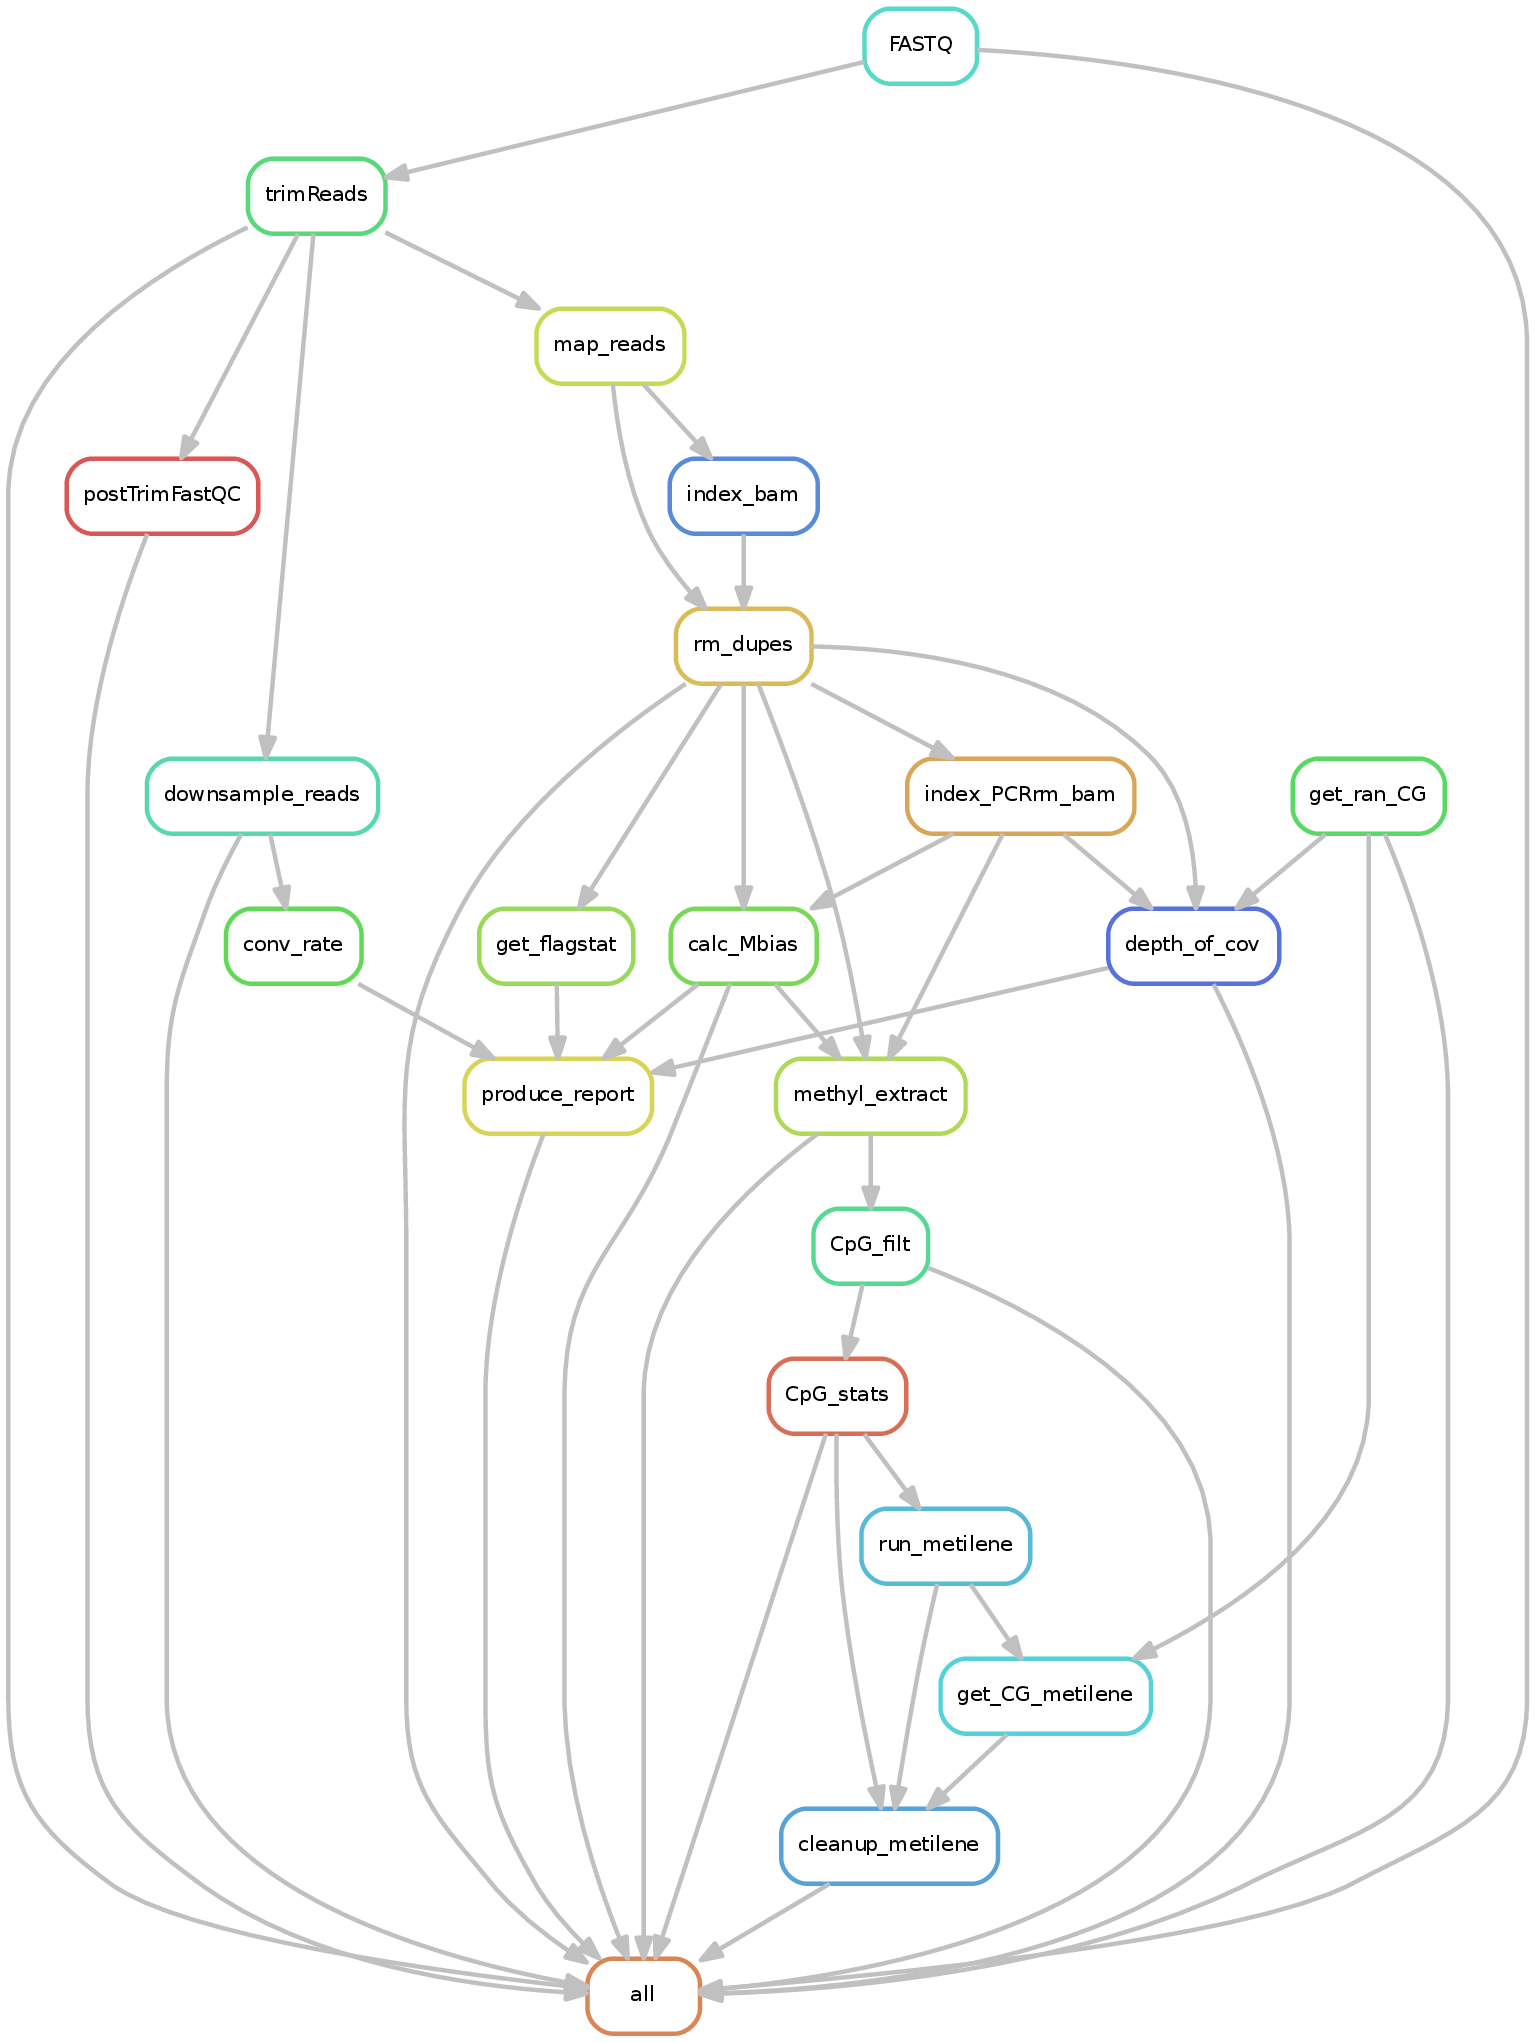
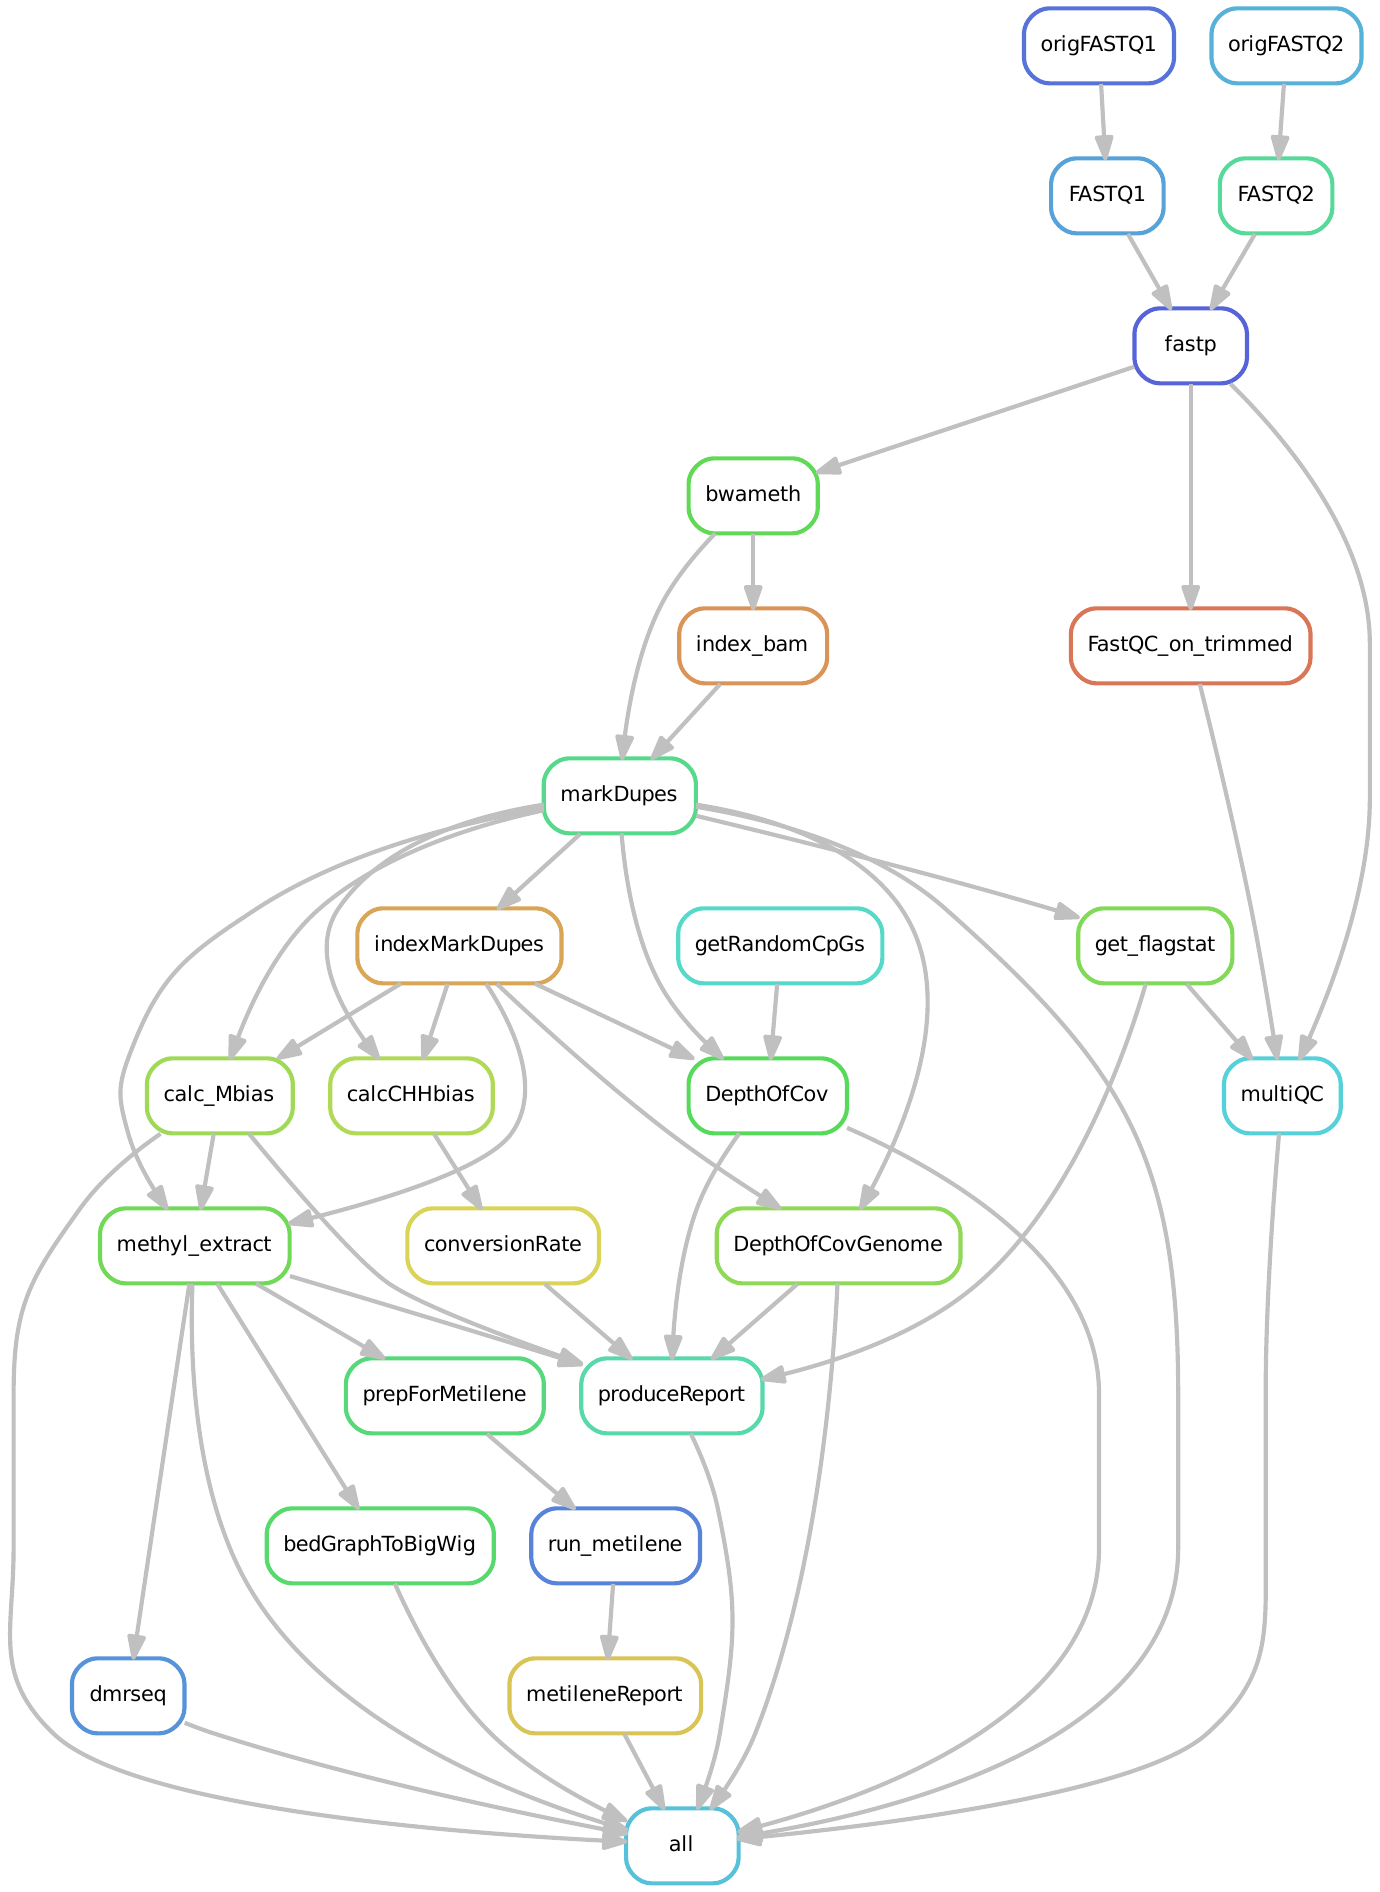
Update documentation

diff --git a/docs/content/workflows/WGBS.rst b/docs/content/workflows/WGBS.rst
@@ -7,17 +7,13 @@ WGBS
 What it does
 ------------
 
-Optionally trimmed reads are mapped to reference genome using a bisulfite-specific aligner (`bwa-meth <https://github.com/brentp/bwa-meth>`__).
-Quality metrics are collected and synthesized in a QC report, including bisulfite conversion rate, mapping rate, percentage CpGs covered a least 10x, methylation bias.
+Optionally trimmed reads are mapped to the reference genome using a bisulfite-specific aligner (`bwa-meth <https://github.com/brentp/bwa-meth>`__).
+Quality metrics are collected and synthesized in a QC report, including bisulfite conversion rate, mapping rate, coverage metrics, and methylation bias.
 
-There are two flags that allow skipping certain QC metric calculation, i.e. ``skipDOC`` and ``skipGCbias``. These deactivate the GATK-dependent calculation of depth of coverage and the deepTools-dependent calculation of GC bias,respectively, e.g. in case these metrics are known from another source.
+There are two flags that allow skipping certain QC metric calculation, i.e. ``--skipDOC`` and ``--GCbias``. These deactivate or activate, respectively, the depth of coverage (DOC) calculations or GC bias calculation done by deepTools.
 
-Methylation ratios are extracted (via `MethylDackel <https://github.com/dpryan79/MethylDackel>`__) for CpG positions in the reference genome with a minimum coverage (10x) and low snp allelic frequency (<0.25 illegitimate bases).
-If sample sheet is provided, logit-transformed beta values for CpG positions are tested for differential methylation using `limma <https://bioconductor.org/packages/release/bioc/html/limma.html>`__.
-Metilene is called to detect de novo DMRs using parameters specified in the defaults dictionary. In addition to the nonparametric statistics output by metilene, limma-derived statistics are recalculated for DMRs, which are further annotated with nearest gene information.
-If bed file(s) with genomic intervals of interest are provided, methylation ratios are aggregated over those and limma is used on logit-transformed methylation ratios to test for differential methylation.
-
-Default filtering criteria for all statistical approaches are specified in defaults.yaml as minimum difference in methylation 0.1 (minMethDiff) as well as FDR threshold (FDR) of 0.1. Uses are highly encouraged to rigorously inspect the resulting volcano plots and to adjust these thresholds as appropriate for their dataset.
+Methylation ratios are extracted (via `MethylDackel <https://github.com/dpryan79/MethylDackel>`__) for CpG positions in the reference genome with a minimum coverage specified by ``--minCoverage``  and low SNP allelic frequency (<0.25 illegitimate bases).
+If a sample sheet is provided, `Metilene <https://www.bioinf.uni-leipzig.de/Software/metilene/`__ , `DMRseq <https://bioconductor.org/packages/release/bioc/html/dmrseq.html>`__ and/or `DSS <https://bioconductor.org/packages/release/bioc/html/DSS.html>`__ (as specified by ``--DMRprograms``) will be used to find differentially methylated regions (DMRs). Filtering criterion can be changed both for the CpGs used to find DMRs as well as what are considered as significant DMRs.
 
 
 .. image:: ../images/WGBS_pipeline.png
@@ -25,10 +21,10 @@ Default filtering criteria for all statistical approaches are specified in defau
 Input requirements
 ------------------
 
-This pipeline requires paired-end reads fastq files and a genome alias, for which ``bwa-meth`` index has been built.
-Optional inputs include bed files with genomic intervals of interest, used to aggregate single CpG values over; a sample sheet with grouping information to use in differential methylation analysis; a blacklist bed file with genomic positions corresponding to known snps to mask single CpG methylation values.
+This pipeline requires fastq files and a genome alias, for which ``bwa-meth`` index has been built.
+Optional inputs include a sample sheet with grouping information to use in differential methylation analysis and a blacklist bed file with genomic positions corresponding to known snps to mask single CpG methylation values.
 
-It is possible to use pipeline-compatible bam files as input. For that, the user has to use the ``--fromBAM`` flag and provide the bam file extention if not matched by the default. Note that this will disable calculating conversion rate as this steps requires fastq.gz input. This is an experimental feature.
+It is possible to use pipeline-compatible bam files as input. For that, the user has to use the ``--fromBAM`` flag and provide the bam file extension if not matched by the default.
 
 
 Workflow configuration file
@@ -50,7 +46,7 @@ Workflow configuration file
 	blacklist:
 	###sample Sheet
 	sampleSheet:
-	###Compute MBias bounds manually?
+	###inclusion bounds for methylation extraction
 	noAutoMethylationBias: False
 	## FASTQ file extension (default: ".fastq.gz")
 	ext: '.fastq.gz'
@@ -59,7 +55,7 @@ Workflow configuration file
 	## Number of reads to downsample from each FASTQ file
 	downsample:
 	## Options for trimming
-	trim: True
+	trim: False
 	trimmer: 'fastp'
 	trimmerOptions: '-q 5 -l 30 -M 5'
 	## Bin size of output files in bigWig format
@@ -74,64 +70,63 @@ Workflow configuration file
 	paired: True
 	###Flags to control skipping of certain QC calculations
 	skipDOC: False
-	skipGCbias: False
-	###Metilene DMR calling parameters:
+	GCbias: False
+	###Thresholds for filtering of statistical comparisons (DMRs and DMLs)
+	DMRprograms: 'metilene,dmrseq'
 	maxDist: 300
 	minCpGs: 10
-	###Thresholds for filtering of statistical comparisons (DMLs and DMRs)
-	minMethDiff: 0.1
+	minCoverage: 5
 	FDR: 0.1
-	computeDMLs: False
+	minMethDiff: 0.1
 	###MethylDackel options
 	MethylDackelOptions: '--mergeContext --maxVariantFrac 0.25 --minDepth 4'
-
+	##umi_tools
+	umibarcode: False
+	bcpattern: NNNNCCCCCCCCC #default: 4 base umi barcode, 9 base cell barcode (eg. RELACS barcode)
+	umidedup: False
+	umidedup_sep: "_"
+	umidedup_opts: --paired
+	aligner: bwameth
 
 Understanding the outputs
 ---------------------------
 
-The WGBS pipeline invoked with reads as input, providing a sample sheet as well as target intervals, will generate output as follows:
+The WGBS pipeline invoked fastq files and a sample sheet and the ``--trim`` and ``--fastqc`` options  will generate the following output:
 
 ::
 
     output_dir
-    |-- cluster_logs
-    |-- metilene_out_example
-    |   `-- logs
-    |-- aggregate_stats_limma_example
-    |   `-- logs
-    |-- singleCpG_stats_limma_example
-    |   `-- logs
-    |-- QC_metrics
-    |   `-- logs
-    |-- methXT
-    |   `-- logs
-    |-- bams
-    |   `-- logs
-    |-- FASTQ_Cutadapt
-    |   `-- logs
-    |-- FASTQ_downsampled
-    |   `-- logs
-    `-- FASTQ
+    ├── bwameth
+    ├── cluster_logs
+    ├── dmrseq_sampleSheet_minCoverage5
+    ├── FASTQ
+    ├── FastQC_trimmed
+    ├── FASTQ_fastp
+    ├── MethylDackel
+    ├── metilene_sampleSheet_minCoverage5
+    ├── multiQC
+    ├── originalFASTQ
+    └── QC_metrics
 
-Aggregate stats will be calculated if user provides at least one bed file with genomic intervals of interest. Differential methylation analysis (singleCpG stats) or DMR detection (metilene_out) will only be run if user provides a sample sheet. It is possible to rerun the differential methylation analysis multiple times using different sample sheet files at a time (e.g. to specify different sample subsets or different contrasts). The name of the sample sheet is appended to the respective result folders (in this case: "example").
-
-In addition to the FASTQ module results (see :ref:`running_snakePipes`), the workflow produces the following outputs:
+The workflow produces the following outputs:
 
 - **FASTQ_downsampled**: contains read files downsampled to 5mln reads. These are used to calculate conversion rate which would otherwise take a very long time.
 
-- **bams**: contains bam files obtained through read alignment with bwa-meth and the PCR duplicate removal with sambamba, as well as matching bam index files.
+- **bwameth**: contains bam files obtained through read alignment with bwa-meth and the PCR duplicate removal with sambamba, as well as matching bam index files.
 
-- **methXT**: contains counts of methylated and unmethylated reads per CpG position in the genome in the bedGraph format as output by methylDackel using filtering thresholds (\*_CpG.bedGraph files). Contains also the 'filtered' \*.CpG.filt2.bed files, after applying redundant coverage filtering or masking CpG positions intersecting a bed file with SNP positions if provided by the user. The latter are used in the downstream statistical analysis. This also contains bigWig files containing the methylation percentage and coverage for use in tools like IGV and deepTools.
+- **dmrseq_sampleSheet_minCoverage<X>**: DMRs (DMRs.txt) and a report (Stats_report.html) from DMRseq as well as a saved R session (Session.RData) using the requested minimum coverage. If you rerun the pipeline with a different minimum coverage specified then a new directory will be created.
+
+- **DSS_sampleSheet_minCoverage<X>**: As with DMRseq above.
+
+- **FastQC_trimmed**: FastQC output on the trimmed reads.
+
+- **FASTQ_fastp**: The trimmed reads and QC metrics from FastP.
+
+- **MethylDackel**: BigWig coverage and methylation files as well as the bedGraph files produced by MethylDackel. 
+
+- **metilene_sampleSheet_minCoverage<X>**: contains output files from metilene in DMRs.txt. DMRs.annotated.txt is an annotated version of that, wherein DMRs are annotated with the nearest gene and the distance to it. There is additionally a QC report (Stats_report.html) that summarizes various properties of the DMRs.
 
 - **QC_metrics**: contains output files from conversion rate, flagstat, depth of coverage, GCbias and methylation bias calculations. The QC report in pdf format collecting those metrics in tabular form is also found in this folder.
-
-- **singleCpG_stats_limma_<suffix>**: contains output files from the single CpG differential methylation analysis module. A PCA plot for all samples as well as density and violin plots per sample group are output, provided any sites pass cross-replicate filtering. A t-test on logit-transformed group means is output to GroupMean.ttest.txt. Differential methylation stastistics are calculated by applying limma on logit-transformed Beta values. Pvalue distribution and volcano plot are output. The table with methylation ratios merged from replicates is saved to limdat.LG.RData. Table of mean methylation ratios per group (used for plotting) as well as top Table of filtered differentially methylated sites are written to the serialized R object singleCpG.RData. A table formatted as metilene input is written to metilene.IN.txt. R session info is written to sessionInfo.txt. Statistical results are summarized in the Stats report.
-
-- **aggregate_stats_limma_<suffix>**: contains output files from the user-provided target interval differential methylation analysis module. A table with methylation ratios for single CpG positions output by the single CpG stat module is intersected with the bed file provided by the user. Single CpG methylation ratios are averaged over the intervals so that each replicate obtains one aggregate (mean) methylation value per genomic interval provided by the user, as long as at least 20% of the CpGs in that interval were extracted and passed filtering. Otherwise the interval is considered undetected and filtered out. The new table of methylation ratios per genomic interval is subjected to an analysis analogous to the singleCpG stats module, so that a PCA plot for all samples is output, alongside a table of differentially methylated intervals (\*tT_filt.txt) and an R object storing the original data (\*.aggCpG.RData). A pvalue distribution plot as well as a volcano plot are produced. Files are prefixed with a prefix extracted from the bed file name provided by the user. R session info is written to sessionInfo.txt. Statistical results are summarized in the Stats report.
-
-- **metilene_out_<suffix>**: contains output files from metilene analysis. The original metilene output is stored in singleCpG.metilene.bed. Genomic intervals output by metilene are processed similarly as the genomic intervals provided by the user with the aggregate stats limma module. A PCA plot as well as violin and density plots are output. A merge of the original metilene output with the top Table produced by limma and obtained by applying the filtering thresholds minAbsDiff (default 0.2) and FDR (default 0.02) is written to singleCpG.metilene.limma_unfiltered.bed and stored in singleCpG.metilene.limma_unfiltered.RData. All regions are further annotated with their closest gene using annotation as defined by the genes_bed entry of the organism dictionary. Gene IDs and gene symbols are added with biomaRt and the final annotated table is written to metilene.limma.annotated_unfiltered.txt. Annotated regions passing the filtering thresholds are divided into regions with positive methylation difference ("metilene.limma.annotated_filtered.UP.txt") and regions with negative methylation difference ("metilene.limma.annotated_filtered.DOWN.txt"). Unannotated filtered regions are written to singleCpG.metilene.limma_filtered.bed.
-
-Diagnostic plots and session info are produced as described above. Statistical results are summarized in the Stats report.
 
 
 Example output plots
@@ -139,13 +134,11 @@ Example output plots
 
 Using data from Habibi et al., Cell Stem Cell 2013 corresponding to mouse chr6:4000000-6000000, following plots could be obtained:
 
-.. image:: ../images/limdat.LG.CC.PCA.png
+.. image:: ../images/DMRseq_methylation_difference.png
 
-.. image:: ../images/Beta.MeanXgroup.all.violin.png
+.. image:: ../images/WGBS_PCA_methylation.png
 
-.. image:: ../images/SingleCpG_pvalue.distribution.png
-
-.. image:: ../images/SingleCpG_volcano.plot.png
+.. image:: ../images/WGBS_PCA_coverage.png
 
 
 Command line options
